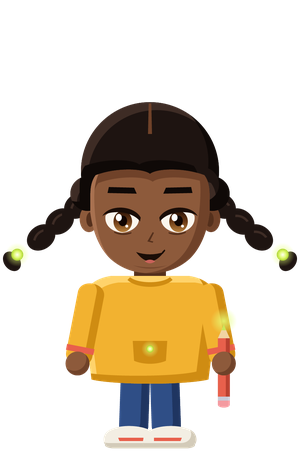
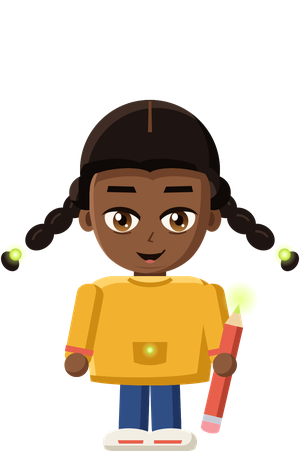
feat(assets): Cami holds a bigger pencil upright, so it reads at small sizes

diff --git a/assets/mascot/src/cami.py b/assets/mascot/src/cami.py
@@ -35,16 +35,16 @@ for s in "lr":
     at = fig.arm(s, 92, SUN, SUN_SH, cuff=CORAL, width=40)
 # pencil (bone-local: origin = right hand), centred on the hand so it can twirl
 pencil = [
-    fig.add("circle", "pencil_glow", x=0, y=-64, radius=20,
+    fig.add("circle", "pencil_glow", x=0, y=-100, radius=28,
             gradient="radial rgba(230,255,120,0.85)@0 rgba(230,255,120,0)@1", pivot="center"),
-    fig.add("path", "pencil_body", d="M-9 -38 L9 -38 L9 50 L-9 50 Z", fill=CORAL),
+    fig.add("path", "pencil_body", d="M-14 -60 L14 -60 L14 78 L-14 78 Z", fill=CORAL),
 ]
-pencil.append(fig.crescent("pencil_body", -6, 0, CORAL_SH))
+pencil.append(fig.crescent("pencil_body", -9, 0, CORAL_SH))
 pencil += [
-    fig.add("path", "pencil_wood", d="M-9 -38 L9 -38 L0 -58 Z", fill="#F1D3A2"),
-    fig.add("path", "pencil_lead", d="M-3.5 -50 L3.5 -50 L0 -59 Z", fill="#C9E85A"),
-    fig.add("path", "pencil_band", d="M-9 50 L9 50 L9 56 L-9 56 Z", fill="#C9C9D6"),
-    fig.add("path", "pencil_rubber", d="M-9 56 L9 56 L9 62 C 9 68 -9 68 -9 62 Z", fill="#F49AA0"),
+    fig.add("path", "pencil_wood", d="M-14 -60 L14 -60 L0 -92 Z", fill="#F1D3A2"),
+    fig.add("path", "pencil_lead", d="M-5.5 -79 L5.5 -79 L0 -93 Z", fill="#C9E85A"),
+    fig.add("path", "pencil_band", d="M-14 78 L14 78 L14 88 L-14 88 Z", fill="#C9C9D6"),
+    fig.add("path", "pencil_rubber", d="M-14 88 L14 88 L14 97 C 14 106 -14 106 -14 97 Z", fill="#F49AA0"),
 ]
 for s in "lr":
     fig.hand(s, at)
@@ -85,14 +85,14 @@ fig.to_front([hair, hair_sh, hair_hi, part])
 
 # ---------------------------------------------------------------- rig
 fig.rig({"l": (166, y(400), 11), "r": (346, y(400), -11)},
-        extra=[("pencil", "arm_r", -1, at, 11, pencil)])
+        extra=[("pencil", "arm_r", -1, at, 24, pencil)])
 
 # ---------------------------------------------------------------- animation
 steps = [
     # twirl: one full turn of the pencil every 6 s, with a small swing of the arm
-    "keyframe --clip twirl --target pencil --property rotation --time 4.8 --value 11 --autoplay --loop",
-    "keyframe --clip twirl --target pencil --property rotation --time 5.7 --value 371 --easing ease-in-out",
-    "keyframe --clip twirl --target pencil --property rotation --time 6 --value 371",
+    "keyframe --clip twirl --target pencil --property rotation --time 4.8 --value 24 --autoplay --loop",
+    "keyframe --clip twirl --target pencil --property rotation --time 5.7 --value 384 --easing ease-in-out",
+    "keyframe --clip twirl --target pencil --property rotation --time 6 --value 384",
     "keyframe --clip twirl --target arm_r --property rotation --time 4.6 --value -11",
     "keyframe --clip twirl --target arm_r --property rotation --time 5.0 --value -24 --easing ease-out",
     "keyframe --clip twirl --target arm_r --property rotation --time 5.8 --value -11 --easing ease-in-out",
